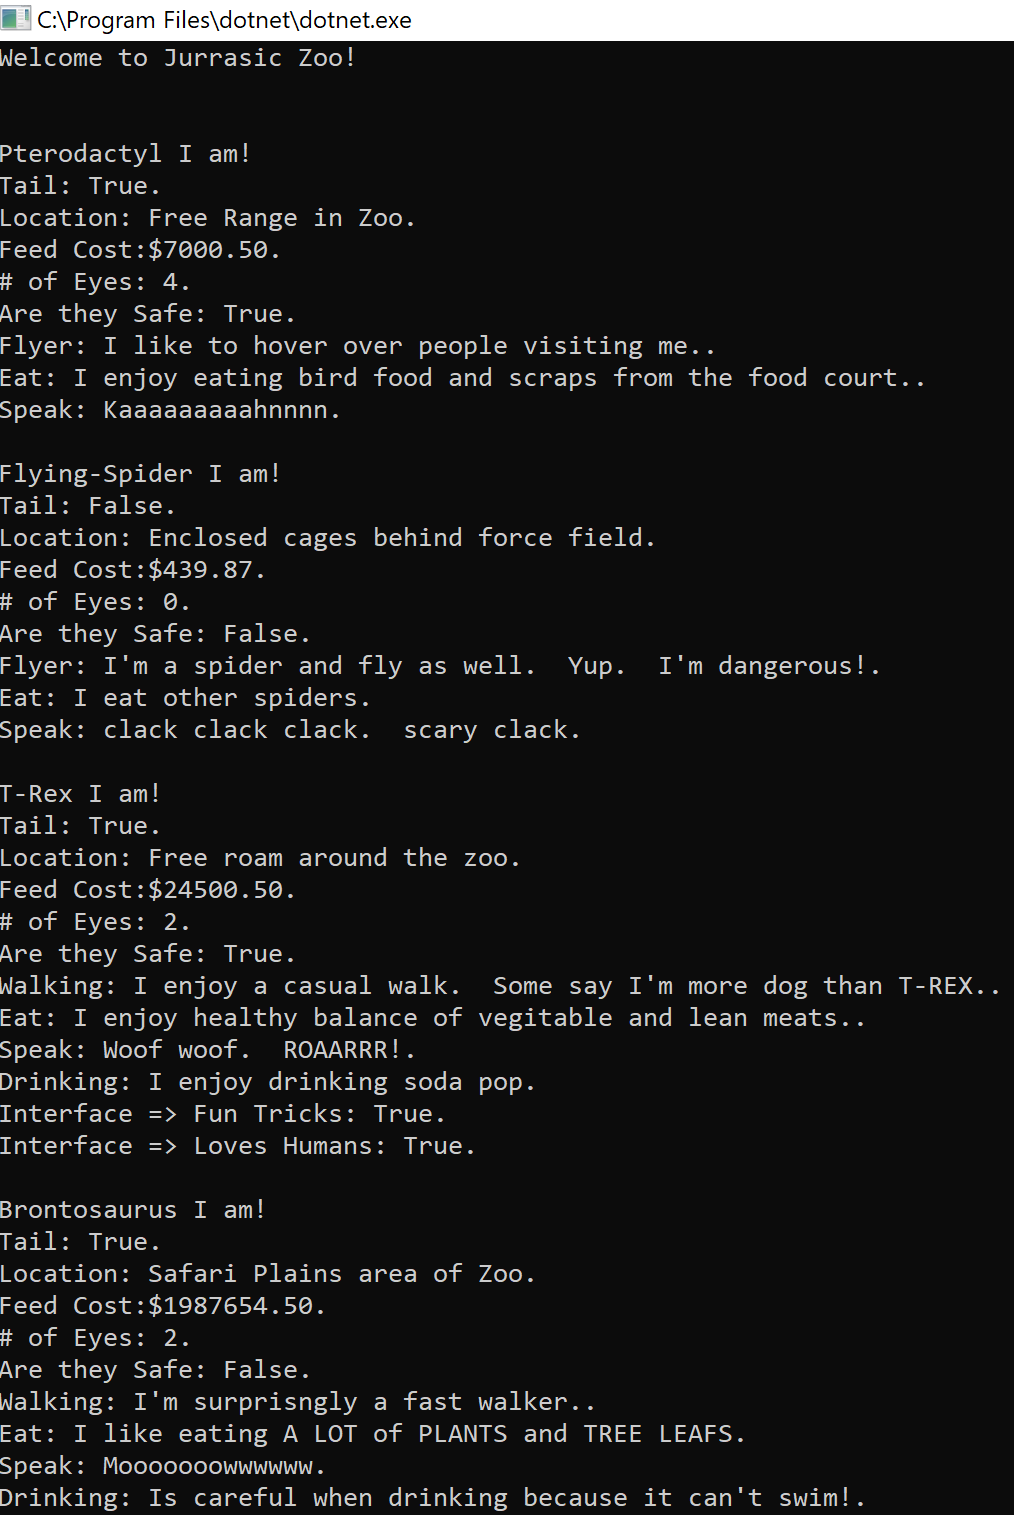
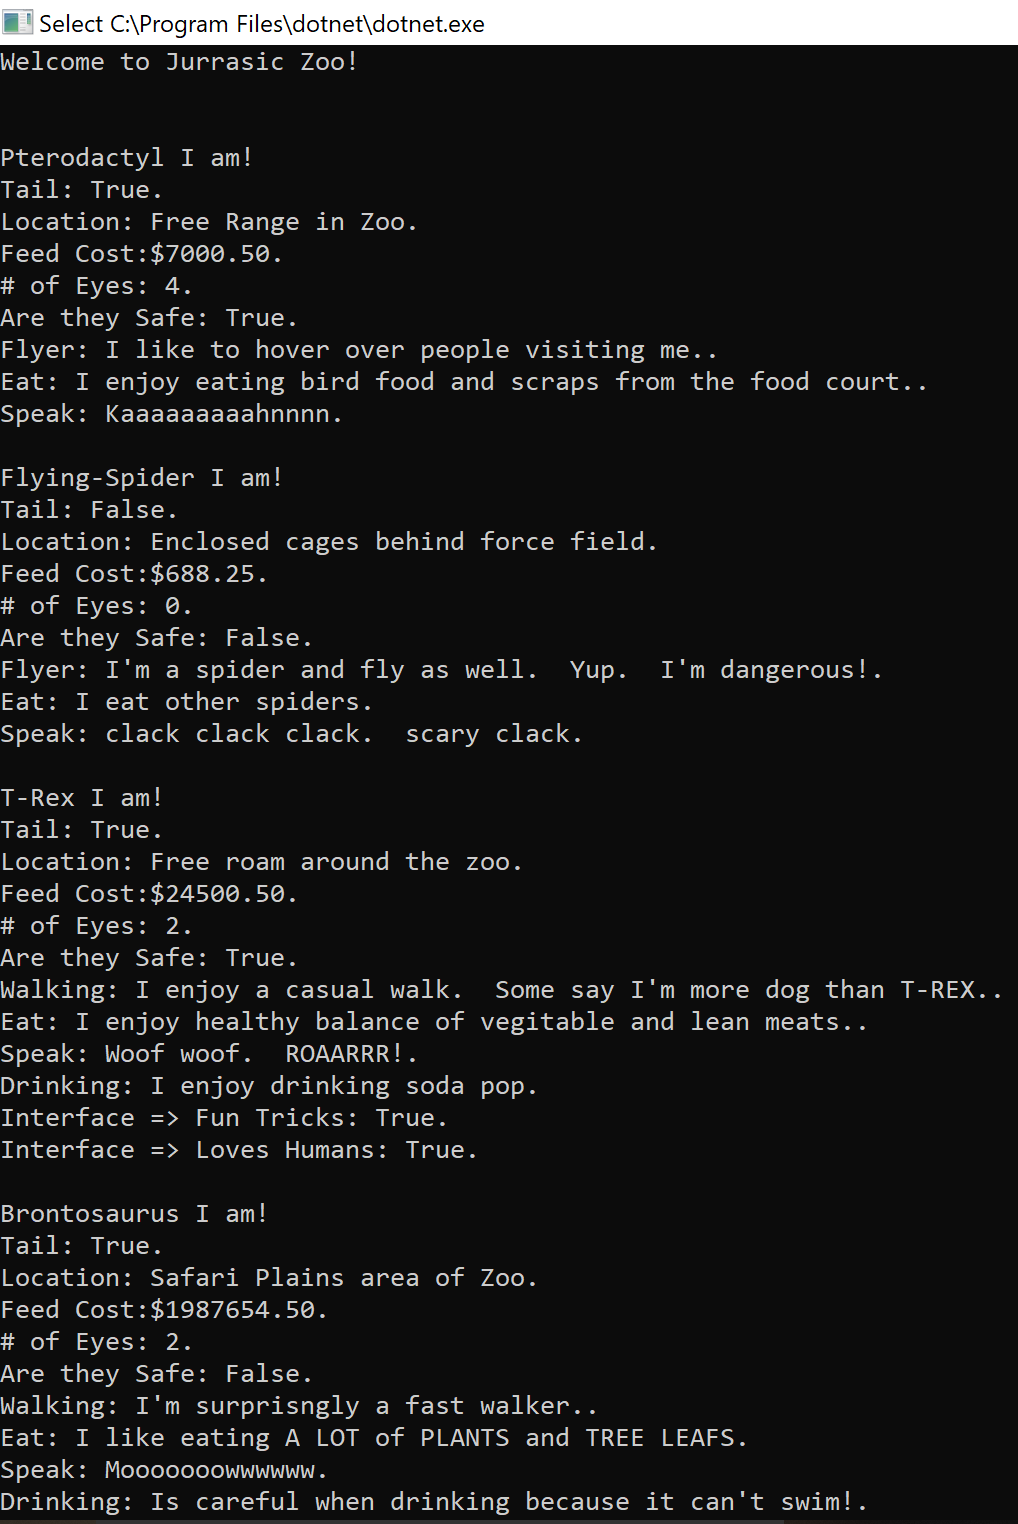
fixed readme and unit test for resubmision

diff --git a/Zoo/ZooTDD/UnitTest1.cs b/Zoo/ZooTDD/UnitTest1.cs
@@ -6,25 +6,136 @@ namespace ZooTDD
 {
     public class UnitTest1
     {
+        /// <summary>
+        /// Interface Test
+        /// </summary>
         [Fact]
-        public void TRexTest()
+        public void OtterTest1()
         {
-            TRex rex = new TRex();
-            Assert.Equal("I enjoy healthy balance of vegitable and lean meats.", rex.Eat());
+            DinoOtter testOne = new DinoOtter();
+            Assert.Equal("Watch me perfrom a trick back flip", testOne.Perform());
         }
 
         [Fact]
-        public void OctoTest()
+        public void OtterTest2()
         {
-            Octopus octopus = new Octopus();
-            Assert.Equal(44, octopus.Eyes);
+            DinoOtter testTwo = new DinoOtter();
+            Assert.Equal(2_234.50m, testTwo.FeedCost);
+        }
+        
+        /// <summary>
+        /// This proves that a Concrete animal orca is an Animal class.
+        /// </summary>
+        [Fact]
+        public void IsAnimal()
+        {
+            Orca testAnimal = new Orca();
+            Assert.True(testAnimal is Animal);
+        }
+        
+        /// <summary>
+        /// Prove method is overridden
+        /// </summary>
+        [Fact]
+        public void PterodactylTest1Speak()
+        {
+            Pterodactyl testOne = new Pterodactyl();
+            Assert.Equal("Kaaaaaaaaahnnnn", testOne.Speak());
         }
 
         [Fact]
-        public static void DinoShark()
+        public void PterodactylTest2Moving()
         {
-            DinoShark dinoShark = new DinoShark();
-            Assert.True(dinoShark.Scales);
+            Pterodactyl testTwo = new Pterodactyl();
+            Assert.Equal("I like to move it move it" ,testTwo.Moving());
+        }
+
+        [Fact]
+        public void FlyingSpiderTest1Safe()
+        {
+            FlyingSpider testOne = new FlyingSpider();
+            Assert.False(testOne.Safe());
+        }
+
+        [Fact]
+        public void FlyingSpiderTest2FeedCost()
+        {
+            FlyingSpider testTwo = new FlyingSpider();
+            Assert.Equal(688.25m, testTwo.FeedCost);
+        }
+
+        /// <summary>
+        /// Another Interface Test
+        /// </summary>
+        [Fact]
+        public void TrexTest1LovesHumans()
+        {
+            TRex testOne = new TRex();
+            Assert.True(testOne.lovesHumans);
+        }
+
+
+        [Fact]
+        public void TrexTest2()
+        {
+            TRex testTwo = new TRex();
+            Assert.Equal("I enjoy being hugged as I myself can not reach to hug others.  That makes me a sad T-Rex...", testTwo.Hug());
+        }
+
+        [Fact]
+        public void BrontosaursTest1()
+        {
+            Brontosaurs testOne = new Brontosaurs();
+            Assert.Equal(1_987_654.50m, testOne.FeedCost);
+        }
+
+        [Fact]
+        public void BrontosaursTest2()
+        {
+            Brontosaurs testTwo = new Brontosaurs();
+            Assert.False(testTwo.Safe);
+        }
+
+        [Fact]
+        public static void DinoSharkTest1()
+        {
+            DinoShark testOne = new DinoShark();
+            Assert.True(testOne.Scales);
+        }
+
+        [Fact]
+        public static void DinoSharkTest2()
+        {
+            DinoShark testTwo = new DinoShark();
+            Assert.Equal(25, testTwo.EggsPerYear());
+        }
+
+        [Fact]
+        public void OctoTest1()
+        {
+            Octopus testOne = new Octopus();
+            Assert.Equal(44, testOne.Eyes);
+        }
+
+        [Fact]
+        public void OctoTest2()
+        {
+            Octopus testTwo = new Octopus();
+            Assert.Equal("Children's pool", testTwo.Location);
+        }
+
+        [Fact]
+        public void OrcaTest1()
+        {
+            Orca testOne = new Orca();
+            Assert.True(testOne.Safe);
+        }
+
+        [Fact]
+        public void OrcaTest2()
+        {
+            Orca testTwo = new Orca();
+            Assert.Equal(2, testTwo.GiveBirth());
         }
     }
 }

diff --git a/Zoo/Zoo/Classes/Orca.cs b/Zoo/Zoo/Classes/Orca.cs
@@ -5,14 +5,17 @@ using Zoo.Classes;
 
 namespace Zoo.Classes
 {
+    /// <summary>
+    /// Concrete Class.  Derived from Mammal Class.
+    /// </summary>
     public class Orca : Mammal
     {
-        public override bool Tail { get; set; }
-        public override bool Packs { get; set; }
-        public override string Location { get; set; }
-        public override int Eyes { get; set; }
-        public override decimal FeedCost { get; set; }
-        public override bool Safe { get; set; }
+        public override bool Tail { get; set; } = true;
+        public override bool Packs { get; set; } = true;
+        public override string Location { get; set; } = "Open waters";
+        public override int Eyes { get; set; } = 4;
+        public override decimal FeedCost { get; set; } = 5432.75m;
+        public override bool Safe { get; set; } = true;
 
         public override string Eat()
         {

diff --git a/Zoo/Zoo/Classes/TRex.cs b/Zoo/Zoo/Classes/TRex.cs
@@ -6,6 +6,10 @@ using Zoo.Interfaces;
 
 namespace Zoo.Classes
 {
+    /// <summary>
+    /// Concrete class.  It's derived from Land class
+    /// Interface included.  ICuddles interface.
+    /// </summary>
     public class TRex : Land, ICuddles, ITricks
     {
         public override bool Tail { get; set; } = true;
@@ -28,7 +32,7 @@ namespace Zoo.Classes
 
         public string Hug()
         {
-            throw new NotImplementedException();
+            return "I enjoy being hugged as I myself can not reach to hug others.  That makes me a sad T-Rex...";
         }
 
         public override string Speak()
@@ -43,7 +47,7 @@ namespace Zoo.Classes
 
         string ITricks.Perform()
         {
-            throw new NotImplementedException();
+            return "Watch me make a back flip.";
         }
     }
 }

diff --git a/Zoo/Zoo/Classes/FlyingSpider.cs b/Zoo/Zoo/Classes/FlyingSpider.cs
@@ -5,12 +5,18 @@ using Zoo.Classes;
 
 namespace Zoo.Classes
 {
-    class FlyingSpider : Flying
+    /// <summary>
+    /// Concrete Class.  Its derived from Flying Class.
+    /// </summary>
+    public class FlyingSpider : Flying
     {
         public override bool Tail { get; set; } = false;
         public override string Location { get; set; } = "Enclosed cages behind force field";
-        public override decimal FeedCost { get; set; } = 439.87m;
-        public override bool Safe { get; set; } = false;
+        public override decimal FeedCost { get; set; } = 688.25m;
+        public new bool Safe()
+        {
+            return false;
+        }
 
         public override string Eat()
         {

diff --git a/Zoo/Zoo/Classes/Animal.cs b/Zoo/Zoo/Classes/Animal.cs
@@ -4,15 +4,16 @@ using System.Text;
 
 namespace Zoo.Classes
 {
+
     public abstract class Animal
     {
         /// <summary>
-        /// Properties for the Animal Abstract class.  
+        /// Properties for the Animal Abstract class. (Parent Class)  
         /// </summary>
         public abstract string Location { get; set; }
         public abstract int Eyes { get; set; }
         public abstract decimal FeedCost { get; set; }
-        public abstract bool Safe { get; set; }
+        public virtual bool Safe { get; set; }
 
         /// <summary>
         /// Methods below for Eating and Moving around in the zoo

diff --git a/Zoo/Zoo/Program.cs b/Zoo/Zoo/Program.cs
@@ -35,7 +35,7 @@ namespace Zoo
             Console.WriteLine($"Location: {flyingSpider.Location}.");
             Console.WriteLine($"Feed Cost:${flyingSpider.FeedCost}.");
             Console.WriteLine($"# of Eyes: {flyingSpider.Eyes}.");
-            Console.WriteLine($"Are they Safe: {flyingSpider.Safe}.");
+            Console.WriteLine($"Are they Safe: {flyingSpider.Safe()}.");
             Console.WriteLine($"Flyer: {flyingSpider.Flyer()}.");
             Console.WriteLine($"Eat: {flyingSpider.Eat()}.");
             Console.WriteLine($"Speak: {flyingSpider.Speak()}.");

diff --git a/Zoo/Zoo/Classes/DinoOtter.cs b/Zoo/Zoo/Classes/DinoOtter.cs
@@ -6,6 +6,10 @@ using Zoo.Interfaces;
 
 namespace Zoo.Classes
 {
+    /// <summary>
+    /// Concrete Class-> derived from Mammal Parent Class.
+    /// Includes the Interface Itricks
+    /// </summary>
     public class DinoOtter : Mammal, ITricks
     {
         public override bool Tail { get; set; } = true;
@@ -28,7 +32,7 @@ namespace Zoo.Classes
 
         public string Perform()
         {
-            throw new NotImplementedException();
+            return "Watch me perfrom a trick back flip";
         }
 
         public string Splash()

diff --git a/Zoo/Zoo/Classes/Land.cs b/Zoo/Zoo/Classes/Land.cs
@@ -5,12 +5,18 @@ using Zoo.Classes;
 
 namespace Zoo.Classes
 {
+    /// <summary>
+    /// Abstract Class-> derived from Surface Parent Class.
+    /// </summary>
     public abstract class Land : Surface
     {
         public abstract bool Tail { get; set; }
 
         public abstract string Walking();
 
-        public abstract string Drinking();
+        public virtual string Drinking()
+        {
+            return " Living on land always makes me thirsty.  More water please!";
+        }
     }
 }

diff --git a/Zoo/Zoo/Classes/Surface.cs b/Zoo/Zoo/Classes/Surface.cs
@@ -5,9 +5,12 @@ using Zoo.Classes;
 
 namespace Zoo.Classes
 {
+    /// <summary>
+    /// Abstract class.  Derived from Animal.  Its a parent class to Flying and Land classes.
+    /// </summary>
     public abstract class Surface : Animal
     {
-        public virtual bool Arms { get; set; }
+        public virtual bool Arms { get; set; } = true;
 
         public virtual int Legs { get; set; } = 8;
 

diff --git a/Zoo/Zoo/Classes/Water.cs b/Zoo/Zoo/Classes/Water.cs
@@ -5,9 +5,12 @@ using Zoo.Classes;
 
 namespace Zoo.Classes
 {
+    /// <summary>
+    /// Concrete Class.  Derived from Animal Class.  Its a parent class to Fish and Mammal class.
+    /// </summary>
     public abstract class Water : Animal
     {
-        public virtual int Tails { get; set; }
+        public virtual int Tails { get; set; } = 1;
 
         public abstract bool Packs { get; set; }
 

diff --git a/Zoo/Zoo/Classes/Flying.cs b/Zoo/Zoo/Classes/Flying.cs
@@ -3,8 +3,12 @@ using System.Collections.Generic;
 using System.Text;
 using Zoo.Classes;
 
+
 namespace Zoo.Classes
 {
+    /// <summary>
+    /// Abstract Class-> derived from Surface Parent Class.
+    /// </summary>
     public abstract class Flying : Surface
     {
         public abstract bool Tail { get; set; }

diff --git a/Zoo/Zoo/Classes/Fish.cs b/Zoo/Zoo/Classes/Fish.cs
@@ -3,6 +3,9 @@ using System.Collections.Generic;
 using System.Text;
 using Zoo.Classes;
 
+/// <summary>
+/// Abstract class.  Parent class is Water.  It's derived classes are DinoShars and Octopus.
+/// </summary>
 namespace Zoo.Classes
 {
     public abstract class Fish:Water
